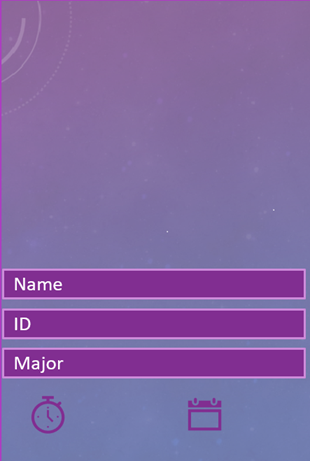
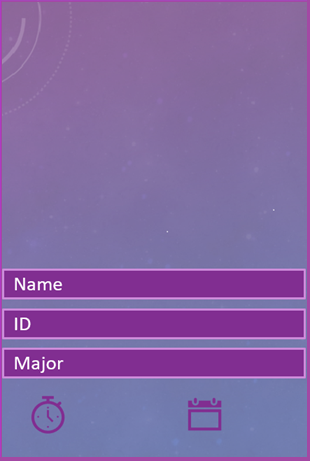
fixed bug in reset_labels,fixed interface border

Changed region(s): [[0.0, 0.0, 1.0, 1.0]]

diff --git a/FaceRecFrame.py b/FaceRecFrame.py
@@ -11,7 +11,7 @@ import cvzone
 import firebase_admin
 from firebase_admin import credentials, db, storage
 
-from data import *
+from student_data import *
 
 # Initialize Firebase
 cred = credentials.Certificate("serviceAccountKey.json")
@@ -248,9 +248,7 @@ class FaceRec(tk.Frame):
             confirm_btn["state"] = "disabled"
             cancel_btn["state"] = "disabled"
             if mode:
-                err_flag = student_confirm_attendace(student_id)
-            if err_flag==-1:
-                return
+                student_confirm_attendace(student_id)
             temp_confirmed = student_check_attendance(student_id)
             print(temp_confirmed)
             self.current_id = -1

diff --git a/UserInterface.py b/UserInterface.py
@@ -1,8 +1,6 @@
 from tkinter import *
 from tkinter import Tk, Canvas, Entry, Text, Button, PhotoImage, ttk, messagebox
-
-import data
-from data import *
+from student_data import *
 import time
 from PIL import Image, ImageTk
 import tkinter as tk
